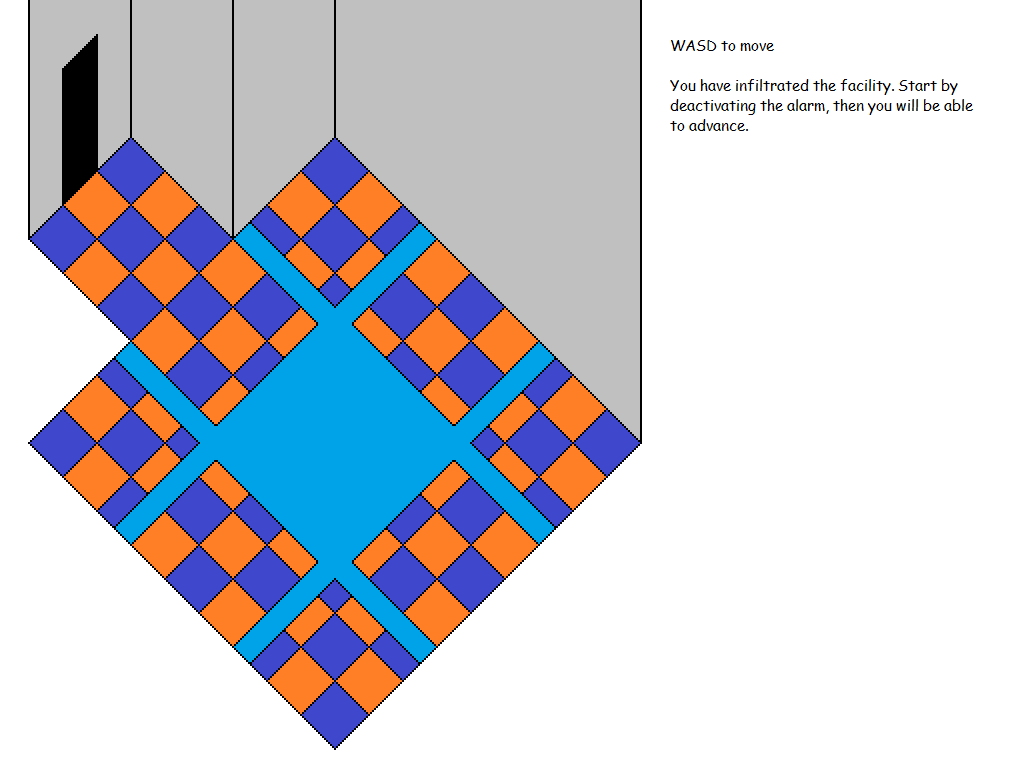
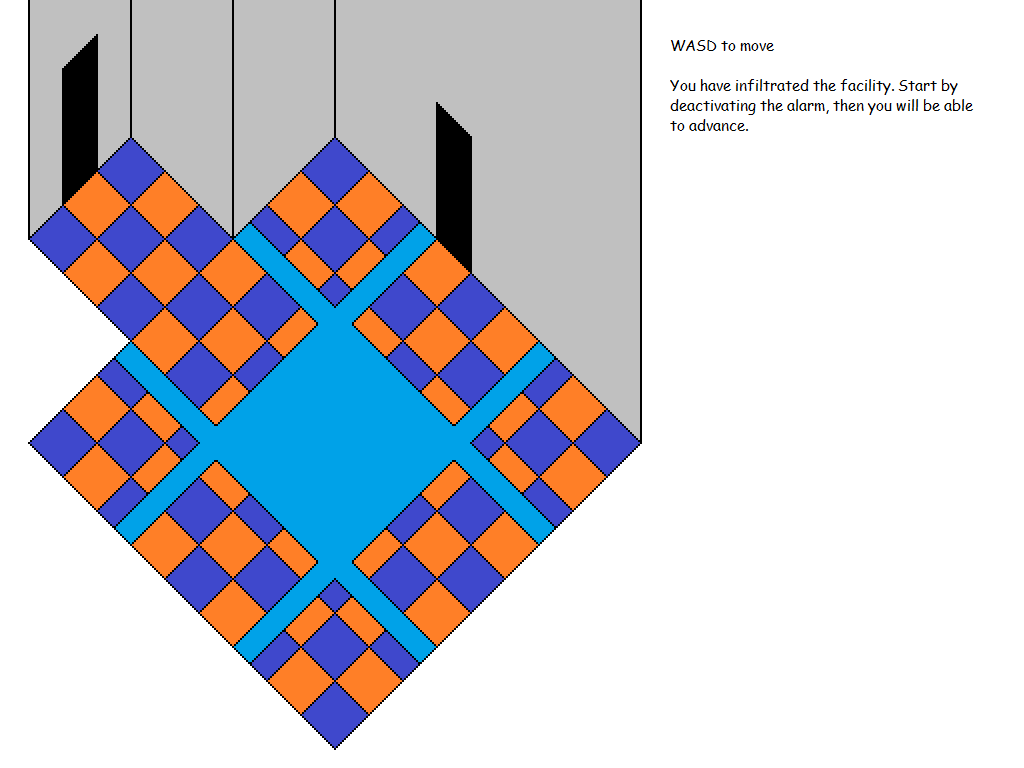
Entity system! Doors that teleport you! Also, I seem to have done something that makes it immensely faster??? Like too fast...

Changed region(s): [[0.4062, 0.125, 0.4688, 0.3438]]

diff --git a/Cataclysm-SRC/scripts/game.py b/Cataclysm-SRC/scripts/game.py
@@ -1,11 +1,19 @@
 import pygame, sys
 from pygame.locals import *
 from common import DISPLAYSURF
+import json
 
 gs = {'isJumping':False,'jumpHeight':0,'isMovingUp':False,'isMovingDown':False,'isMovingLeft':False,'isMovingRight':False,'char':'../assets/sprites/player/player.png', 'x':0, 'y':0 ,'z':0, 'lvl':'../maps/c01a', 'realX':300, 'realY':300}
 pygame.font.init()
 FONT = pygame.font.SysFont('Bauhaus 93 Regular', 40)
-
+def tickDoor(obj): # For every door object in a level, this will run, with the specified parameters of each specific door.
+    if gs['x'] >= obj['posdict']['x'] and gs['y'] >= obj['posdict']['y'] and gs['z'] >= obj['posdict']['z'] and gs['x'] <= obj['dposdict']['x'] and gs['y'] <= obj['dposdict']['y'] and gs['z'] <= obj['dposdict']['z']:
+        # Take the player to the destination if they are within the boundaries of the door.
+        gs['x'] = 0
+        gs['y'] = 0
+        gs['z'] = 0
+        gs['realX'] = 300
+        gs['realY'] = 300
 def getGamestate(): # Will be used for saving.
     return gs
 
@@ -18,17 +26,22 @@ def start():
     charflip = pygame.transform.flip(char, True, False)
     chardisplay = char
     lvl = pygame.image.load(gs['lvl'] + '/visual.png')
+    entities = json.loads(open(gs['lvl'] + '/entities.json').read())
     charmask = pygame.mask.from_surface(char)
     lvlmask = pygame.mask.from_surface(pygame.image.load(gs['lvl'] + '/walls.png'))
     bullet = pygame.image.load('../assets/sprites/bullet/bullet.png')
     bx = 0
     by = 0
     bulletIsExisting = False
-    hitbox = pygame.image.load('../assets/sprites/player/hitbox.png')
-    hitmask = pygame.mask.from_surface(hitbox)
+    hitmask = pygame.mask.from_surface(pygame.image.load('../assets/sprites/player/hitbox.png'))
     while True: 
         DISPLAYSURF.blit(lvl, (0,0))
         DISPLAYSURF.blit(chardisplay,(gs['realX'],gs['realY']))
+
+        for obj in entities: # Tick through every entity in the lvl
+            if obj['type'] == 'door':
+                tickDoor(obj)
+        
         if bulletIsExisting:
             DISPLAYSURF.blit(bullet,(bx,by))
             if bulletFacing is 'left':
@@ -111,7 +124,7 @@ def start():
                 gs['jumpHeight'] = 0
                 gs['isJumping'] = 0
 
-        DISPLAYSURF.blit(FONT.render(str(gs['x']) + '_' + str(gs['z']), True, (0, 128, 255), (0, 0, 0)), (25,25))
+        DISPLAYSURF.blit(FONT.render(str(gs['x']) + '_' + str(gs['y']) + '_' + str(gs['z']), True, (0, 128, 255), (0, 0, 0)), (25,25))
 
         pygame.display.update()
 
